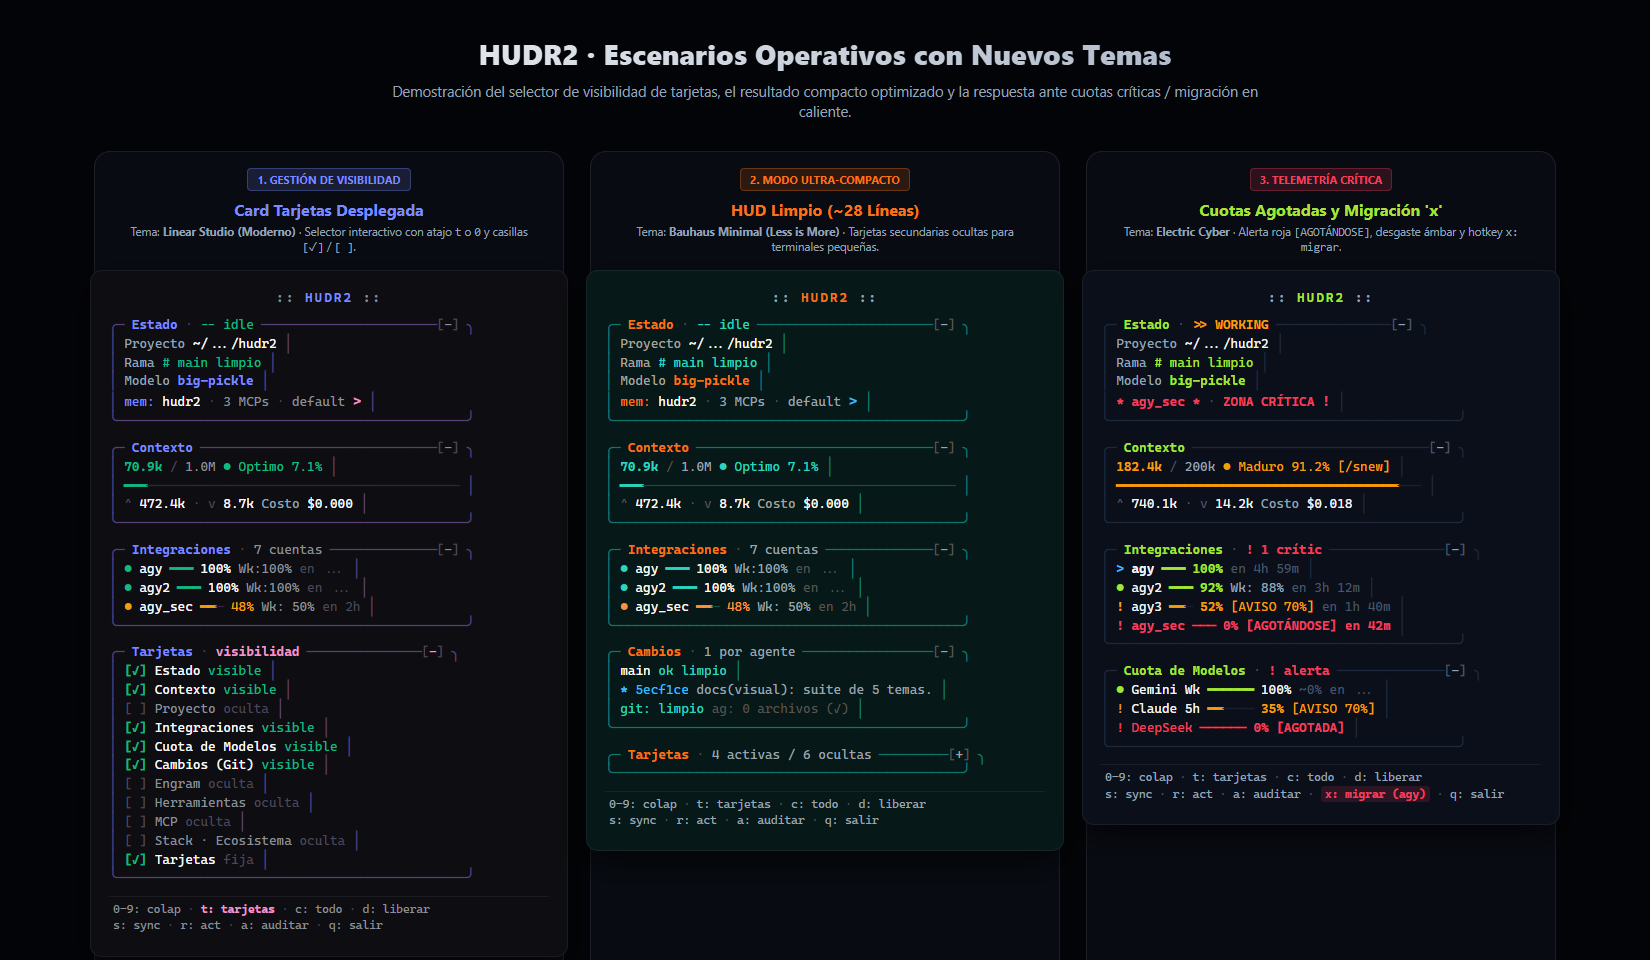
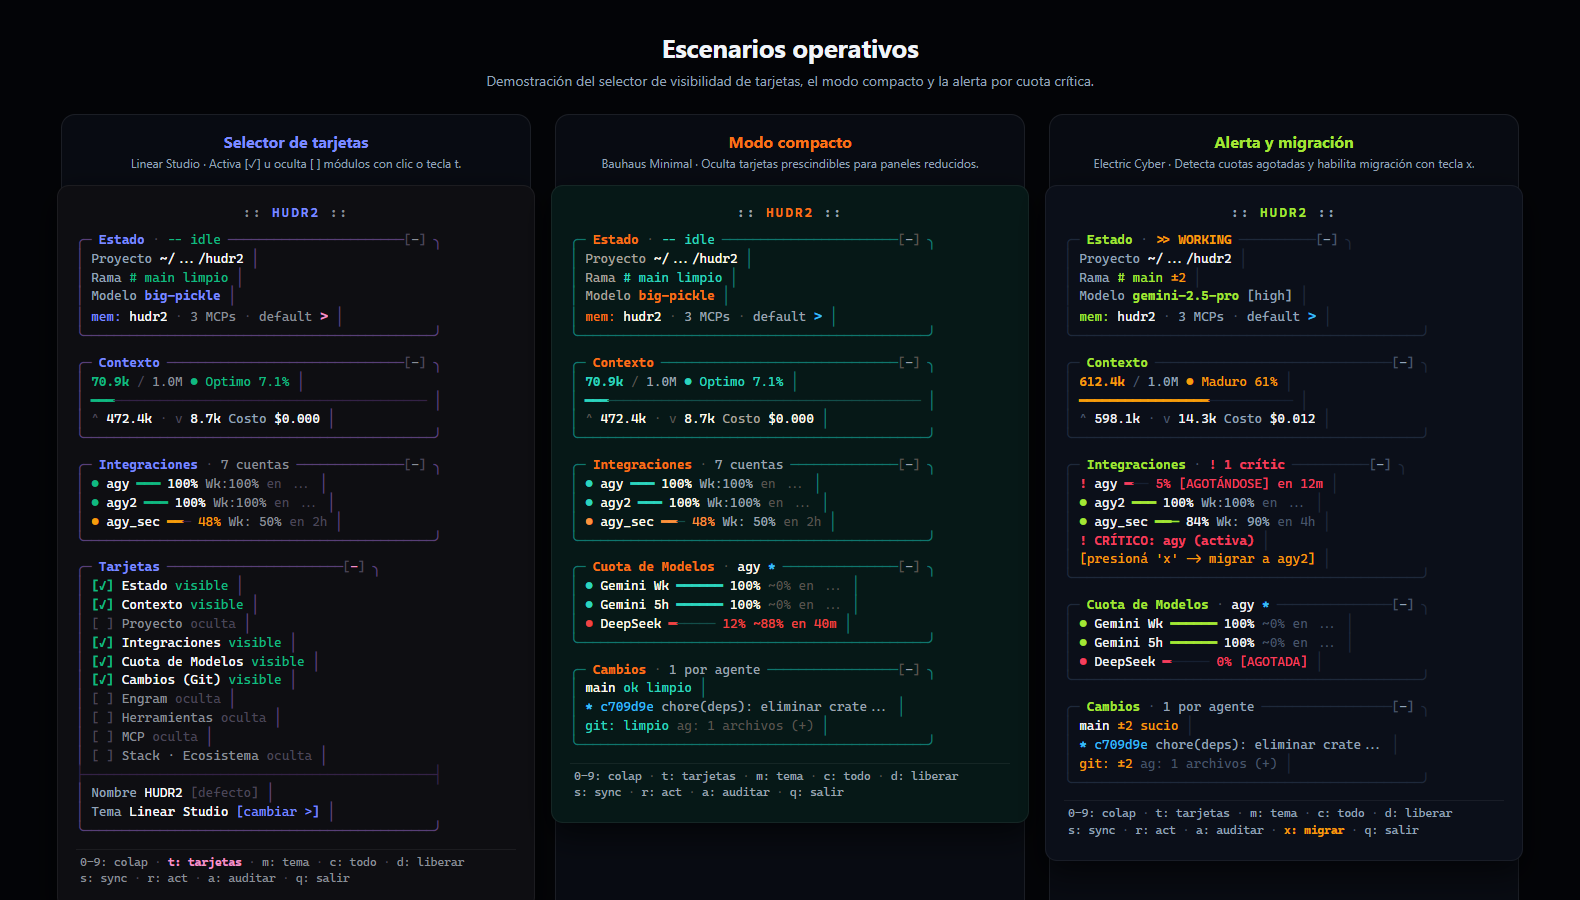
docs(visual): alinear fidelidad cromatica de Electric Cyber y sobriedad de texto

diff --git a/README.md b/README.md
@@ -25,29 +25,28 @@ Cuando trabajas con agentes como OpenCode o Gentle Shell dentro de una sesión l
 
 ## Muestra visual
 
-### 1. Colección Cromática
+### Temas nativos
 
 <p align="center">
-  <img src="hudr2_themes.png" width="100%" alt="HUDR2 · Colección Cromática Definitiva de 5 Temas" />
+  <img src="hudr2_themes.png" width="100%" alt="Temas nativos de HUDR2" />
 </p>
 
 *5 identidades visuales para terminal:*
 1. **Linear Studio:** títulos en Periwinkle (`#7B8AFF`), marco violeta calibrado (`#583F78`), etiquetas Slate Plata (`#94A3B8`) y cursor rosa (`#F095C8`).
-2. **Electric Cyber:** títulos y salud en Electric Lime (`#A3E635`), fondo Midnight Navy (`#111827`) y cursor Cyan Neón (`#38BDF8`).
+2. **Electric Cyber:** títulos y salud en Electric Lime (`#A3E635`), marco (`#1E293B`) y cursor Cyan Neón (`#38BDF8`).
 3. **Bauhaus Minimal:** títulos Naranja (`#F97316`), marcos Teal (`#0F766E`) y tipografía marfil cálido (`#FFFBEB`).
 4. **Synthwave Sunset:** títulos Coral Pink (`#FB7185`), marcos Ocean Teal (`#0E7490`) y tipografía Ice Blue (`#ECFEFF`).
-5. **Editorial Velvet:**  títulos Peach Orange (`#FDBA74`), marcos Crimson Red (`#BE123C`) y lectura Warm Cream (`#FFF7ED`).
+5. **Editorial Velvet:** títulos Peach Orange (`#FDBA74`), marcos Crimson Red (`#BE123C`) y lectura Warm Cream (`#FFF7ED`).
 
-### 2. Escenarios Operativos en Vivo
+### Escenarios operativos
 
 <p align="center">
-  <img src="hudr2_operativo.png" width="100%" alt="HUDR2 · Escenarios Operativos con Nuevos Temas" />
+  <img src="hudr2_operativo.png" width="100%" alt="Escenarios operativos" />
 </p>
 
-*Comportamiento reactivo en acción (de izquierda a derecha):*
-1. **Gestión de Visibilidad (`Tarjetas`):** Selector interactivo desplegado con atajo `t` o `0`. Permite activar `[✓]` u ocultar `[ ]` cualquier módulo del HUD con un simple clic de ratón. *(Demostrado en Linear Studio)*.
-2. **Modo Ultra-Compacto:** Terminal reducida a ~28 líneas esenciales reteniendo únicamente métricas críticas de sesión para espacios de trabajo reducidos. *(Demostrado en Bauhaus Minimal "Less is More")*.
-3. **Telemetría Crítica y Migración en Caliente:** Detección en tiempo real de cuentas agotadas (`! [AGOTÁNDOSE]`), desgaste progresivo en ámbar y activación automática del atajo `x: migrar (agy)` para transferir el agente sin interrumpir la tarea. *(Demostrado en Electric Cyber)*.
+1. **Selector de tarjetas:** Activa `[✓]` u oculta `[ ]` módulos con clic de ratón o tecla `t` / `0`.
+2. **Modo compacto:** Oculta tarjetas prescindibles para paneles de ~28 líneas.
+3. **Alerta y migración:** Marca cuentas agotadas (`!`) y permite migrar el agente en caliente con la tecla `x`.
 
 ---
 
@@ -65,19 +64,19 @@ Cuando trabajas con agentes como OpenCode o Gentle Shell dentro de una sesión l
 | **Stack · Ecosistema**| CLI probes | Versiones instaladas de `pi`, `hudr2`, `gentle-shell`, `gentle-ai`, `engram` y `herdr`. |
 | **Herramientas** | SQLite / IPC | Llamadas a herramientas en el turno (lecturas, escrituras, comandos bash, engram). |
 | **MCP** | IPC / configs | Servidores MCP activos y conectados al entorno. |
-| **Tarjetas** | `hudr2.json` | Selector de visibilidad: activa, oculta o fija tarjetas según tus necesidades de espacio. |
+| **Tarjetas** | `hudr2.json` | Panel de ajustes: visibilidad de módulos, tema activo y nombre personalizado del sidebar. |
 
 ---
 
-## Sistema de visibilidad de tarjetas (`Tarjetas`)
+## Ajustes del HUD (`Tarjetas`)
 
-Para adaptarse tanto a monitores verticales como a terminales compactas, HUDR2 incluye gestión interactiva de tarjetas:
+Para adaptarse tanto a monitores verticales como a terminales compactas, HUDR2 incluye gestión interactiva:
 
-- Presiona `0` o `t` para desplegar la tarjeta **Tarjetas**.
-- Cada fila muestra su estado: `[✓] visible` o `[ ] oculta`.
-- Haz clic con el ratón sobre cualquier fila para alternar su visibilidad. Las tarjetas desactivadas desaparecen por completo del flujo de renderizado, permitiendo un HUD ultra-compacto de apenas 30 líneas.
-- La tarjeta `Tarjetas` permanece siempre fija (`fija`), evitando cualquier escenario de bloqueo accidental.
-- Tus preferencias de visibilidad y colapso se guardan de forma atómica en `hudr2.json`.
+- Presiona `0` o `t` para abrir la tarjeta **Tarjetas**.
+- **Visibilidad:** Cada fila muestra su estado `[✓] visible` o `[ ] oculta`. Un clic alterna su visibilidad para reducir el HUD a ~28 líneas.
+- **Nombre:** Permite personalizar el encabezado del sidebar mediante `hudr2.json` o flag `--name`.
+- **Tema:** Muestra el tema activo y permite cambiarlo con un clic en `[cambiar >]` o pulsando `m`.
+- Las preferencias se guardan de forma atómica en `hudr2.json`.
 
 ---
 
@@ -86,7 +85,8 @@ Para adaptarse tanto a monitores verticales como a terminales compactas, HUDR2 i
 | Tecla / Acción | Efecto |
 |---|---|
 | `1` – `9` | Plegar o desplegar tarjetas individuales (1: Estado, 2: Contexto, 3: Proyecto, 4: Integraciones, 5: Cuotas, 6: Git, 7: Engram, 8: Herramientas, 9: MCP). |
-| `0` o `t` | Plegar o desplegar la tarjeta de **Tarjetas** (selector de visibilidad). |
+| `0` o `t` | Plegar o desplegar la tarjeta de **Tarjetas** (panel de ajustes). |
+| `m` | **Ciclar tema visual**: Alterna entre Auto (Herdr), 5 temas nativos y 14 de Herdr. |
 | `c` | Colapsar o abrir todas las tarjetas a la vez. |
 | `x` | **Migración en caliente**: Reasigna sesiones activas con cuota crítica (>85%) hacia la cuenta más saludable disponible. |
 | `s` | **Sincronización**: Regenera modelos y templates de Cliproxy en `opencode.json`. |
@@ -102,13 +102,15 @@ Para adaptarse tanto a monitores verticales como a terminales compactas, HUDR2 i
 ## Opciones de ejecución
 
 ```bash
-hudr2 [--once] [--pane <HERDR_PANE_ID>] [--cwd <dir>] [--config <file>]
+hudr2 [--once] [--theme <name>] [--name <title>] [--pane <HERDR_PANE_ID>] [--cwd <dir>] [--config <file>]
 ```
 
-- `--once`: Imprime un snapshot único de las tarjetas activas directamente en stdout y termina de inmediato (ideal para diagnósticos o scripts).
-- `--pane <id>`: Vincula el ciclo de vida del HUD a un pane específico de Herdr (se cierra al morir el pane padre).
+- `--once`: Imprime un snapshot único de las tarjetas activas directamente en stdout y termina de inmediato.
+- `--theme <name>`: Selecciona el tema visual (`auto`, `linear`, `cyber`, `dracula`, etc.).
+- `--name <title>`: Asigna un nombre personalizado al encabezado del sidebar.
+- `--pane <id>`: Vincula el ciclo de vida del HUD a un pane específico de Herdr.
 - `--cwd <dir>`: Ruta del proyecto que se desea monitorear (por defecto toma el directorio actual).
-- `--config <file>`: Archivo de configuración alternativo para persistencia de tarjetas.
+- `--config <file>`: Archivo de configuración alternativo para persistencia de ajustes.
 
 ---
 
